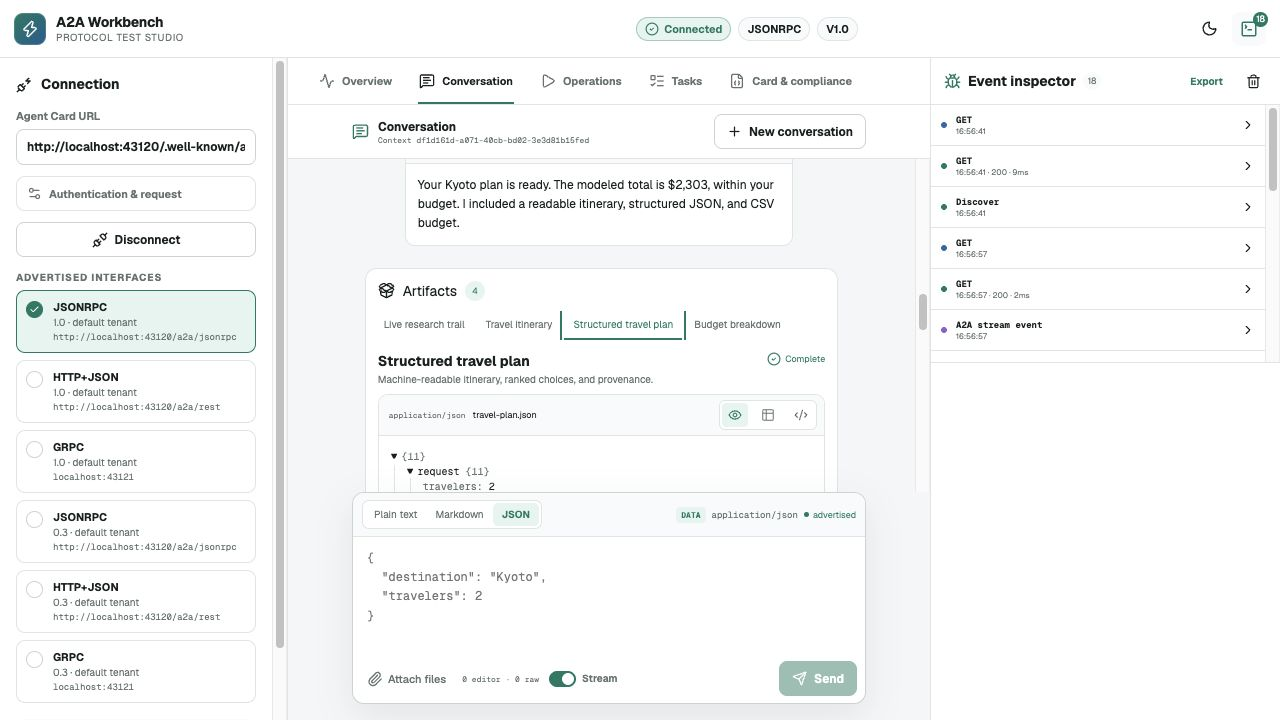
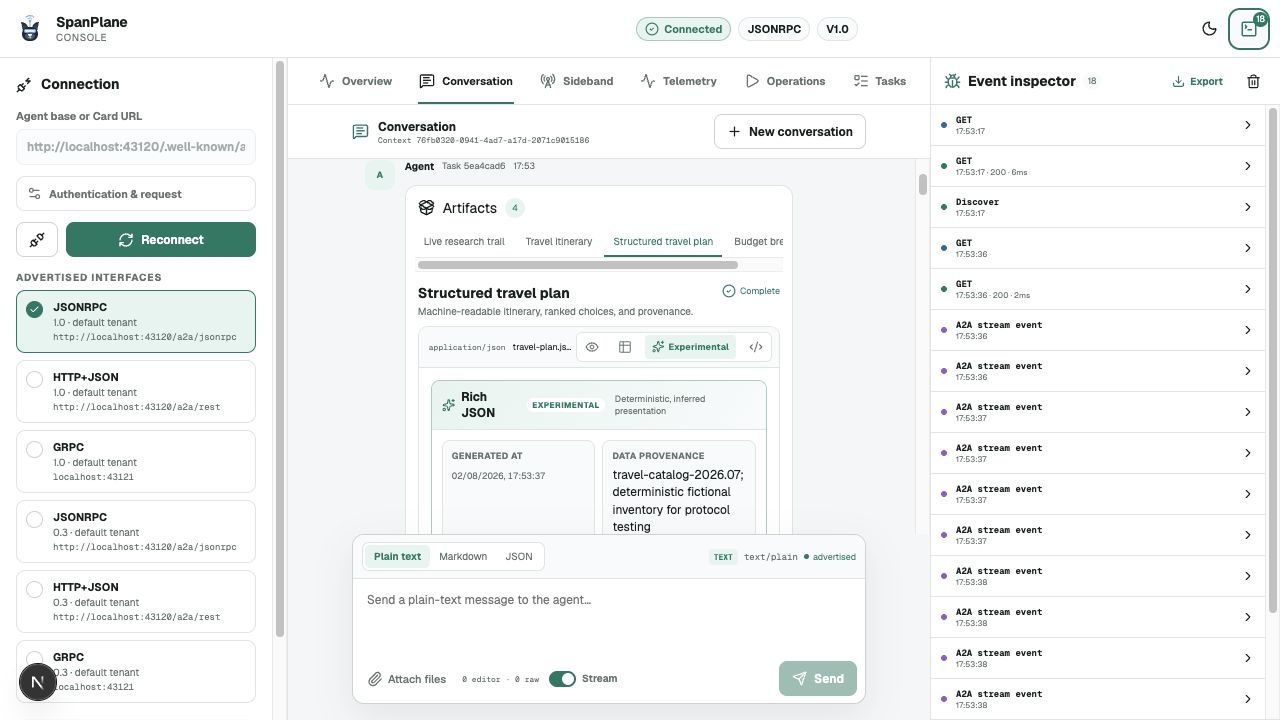
docs: refresh product visuals and architecture

diff --git a/README.md b/README.md
@@ -15,13 +15,13 @@
   <a href="https://github.com/shashikanth-gs/spanplane/issues"><img src="https://img.shields.io/github/issues/shashikanth-gs/spanplane.svg" alt="GitHub issues" /></a>
 </p>
 
-SpanPlane is a local-first studio for testing [Agent2Agent (A2A)](https://a2a-protocol.org/) agents as real applications—not just as protocol endpoints. Discover an Agent Card, choose an advertised transport and protocol version, exercise conversations and task operations, inspect streaming lifecycle events, and render agent artifacts according to their declared content type.
+SpanPlane is a local-first studio for testing [Agent2Agent (A2A)](https://a2a-protocol.org/) agents as real applications—not just as protocol endpoints. Discover an Agent Card, choose an advertised transport and protocol version, exercise conversations and task operations, inspect streaming lifecycle events, render rich agent artifacts, and correlate optional sideband and OpenTelemetry evidence in the same session.
 
 It uses the official [`@a2a-js/sdk`](https://github.com/a2aproject/a2a-js) for A2A wire handling. The Workbench does not implement JSON-RPC, HTTP+JSON, gRPC, or version compatibility shims itself.
 
-![SpanPlane showing a completed streamed travel-planning task, structured JSON artifact, advertised interfaces, and A2A wire events](public/screenshots/spanplane-live-travel-session.png)
+![SpanPlane showing a completed streamed travel-planning task, an Experimental rich JSON artifact, advertised interfaces, and A2A wire events](public/screenshots/spanplane-live-travel-session.png)
 
-*A completed A2A v1.0 JSON-RPC session against a deterministic travel-planning agent: agent discovery, task streaming, a structured artifact, the content-aware composer, and the event inspector in one local view.*
+*A completed A2A v1.0 JSON-RPC session against a deterministic travel-planning agent: six advertised interfaces, task streaming, an inferred rich presentation backed by the exact JSON payload, the content-aware composer, and 18 captured wire events in one local view.*
 
 > **Status:** developer preview. The local Workbench, A2A v1.0/v0.3 compatibility support, and real-agent test matrix are functional. Scenario automation and direct TCK/ITK orchestration remain roadmap work.
 
@@ -60,7 +60,7 @@ Open the displayed local URL, enter an agent’s `/.well-known/agent-card.json` 
 
 ## Hosted public demo
 
-The optional demo at [spanplane.allsrc.dev](https://spanplane.allsrc.dev) is a safe place to try public agents: its root is the project/about page and the tester is at `/workbench`. It accepts publicly reachable **HTTPS JSON-RPC and HTTP+JSON** agents without a target allowlist.
+The optional Workbench at [spanplane.all.allsrc.dev/workbench](https://spanplane.all.allsrc.dev/workbench) is a safe place to try public agents. It accepts publicly reachable **HTTPS JSON-RPC and HTTP+JSON** agents without a target allowlist.
 
 The hosted demo deliberately excludes credentials, custom headers, private networks, gRPC, push webhooks, HTTP-only endpoints, and large attachments. Those are available in a local `npx spanplane` installation, where the network and credentials remain under your control.
 
@@ -88,15 +88,34 @@ It includes:
 
 A2A is always the system of record: the Workbench captures what the agent actually sends—messages, tasks, updates, artifacts, and transport exchanges. Sideband and OpenTelemetry enrich that evidence when an agent supports them; neither is required for an agent to be testable.
 
+```mermaid
+flowchart LR
+    Agent["Your agent / app"]
+    subgraph SpanPlane["SpanPlane local runtime"]
+        A2A["A2A Workbench + capture"]
+        Sideband["Sideband decoder"]
+        Phoenix["Managed Phoenix<br/>OTLP collector + trace store"]
+        Evidence["Redaction + evidence correlation"]
+        UI["Workbench UI + deterministic renderers"]
+        A2A --> Evidence
+        Sideband --> Evidence
+        Phoenix --> Evidence
+        Evidence --> UI
+    end
+    Agent -- "A2A core evidence" --> A2A
+    Agent -- "Negotiated A2A extension" --> Sideband
+    Agent -- "OTLP/HTTP traces" --> Phoenix
+```
+
 Sideband uses the A2A extension mechanism. The Workbench opts in only when an Agent Card advertises an extension URI it understands and uses the official SDK to transmit the version-correct extension service parameter. It supports both metadata-carried events and extension-contributed artifacts. There is no official universal sideband-event schema today, so the included generic contract is explicitly provisional. A built-in compatibility adapter also recognizes the public [`a2a-wrapper`](https://github.com/shashikanth-gs/a2a-wrapper) trace contract, `urn:x-a2a:trace:v1`, and maps its lifecycle, tool, reasoning, decision, delegation, and usage artifacts into Sideband without mixing them with user-facing outputs. Additional deployment contracts can be added with `A2A_SIDEBAND_EXTENSION_URIS`. See [SIDEBAND.md](SIDEBAND.md).
 
-### Out-of-the-box OpenTelemetry Collector
+### Managed Phoenix observability
 
-SpanPlane provides a fully managed, local **OpenTelemetry (OTel) Collector** out of the box. You do not need to set up any complex external infrastructure to see what's happening inside your agent. 
+SpanPlane starts and supervises a version-pinned local **Arize Phoenix** process by default. Phoenix owns both observability roles in this setup: it receives OTLP traces and stores them for SpanPlane to query and correlate. There is no separate SpanPlane collector process.
 
-To see your agent's internal traces in the "Telemetry" tab, your agent must export its traces via **OTLP/HTTP** to the local collector running on port `6006`.
+To see your agent's internal traces in the **Telemetry** tab, export them via **OTLP/HTTP** directly to the displayed Phoenix endpoint. The default local endpoint is:
 
-**1. Point your agent to the collector**
+**Point your agent to managed Phoenix**
 Set the following environment variable in your agent's environment or `.env` file:
 ```bash
 OTEL_EXPORTER_OTLP_TRACES_ENDPOINT=http://127.0.0.1:6006/v1/traces
@@ -112,7 +131,7 @@ When configured, SpanPlane will instantly capture and visualize deep **Gen AI me
 - Retriever queries and embedded document chunks
 - LLM prompt traces, generation metrics, and token usage
 
-Under the hood, this is powered by a locally managed instance of **Arize Phoenix**. Correlation uses session, request, A2A context/task/message, and OTEL trace/span identifiers.
+SpanPlane correlates Phoenix records with A2A and sideband evidence using session, request, A2A context/task/message, and OTEL trace/span identifiers. An external Phoenix deployment can be used instead of the managed local process.
 
 The semantic telemetry view adapts documented attribute dialects into one model, usage, tool, retrieval, memory, and evaluation vocabulary. It labels the source dialect and distinguishes missing model spans from model spans that omit usage. It never estimates provider token counts when no exported attribute contains them.
 

diff --git a/ARCHITECTURE.md b/ARCHITECTURE.md
@@ -19,9 +19,9 @@ The application is a local-first modular monolith. A single Node command owns pr
 | Local process supervisor | `bin` | Starts and stops Node plus the managed, pinned telemetry runtime |
 | Content presentation | `src/components/PartRenderer.tsx` | Shared rendered, structured, and feature-flagged raw views |
 
-## Runtime model and OpenTelemetry Collector
+## Runtime model and managed Phoenix
 
-`npx spanplane` is the only required application command. To provide an **out-of-the-box OpenTelemetry (OTel) Collector**, the CLI automatically provisions and manages an [Arize Phoenix](https://phoenix.arize.com/) instance locally. 
+`npx spanplane` is the only required application command. The CLI automatically provisions and manages an [Arize Phoenix](https://phoenix.arize.com/) instance locally. Phoenix is both the OTLP collector and trace store in this runtime; SpanPlane does not insert a separate collector process.
 
 - On the first run, it transparently creates an isolated Python virtual environment beneath the `.spanplane-data` directory and installs the required Phoenix dependencies.
 - It starts the Phoenix OTel collector on loopback, selecting unused ports automatically.
